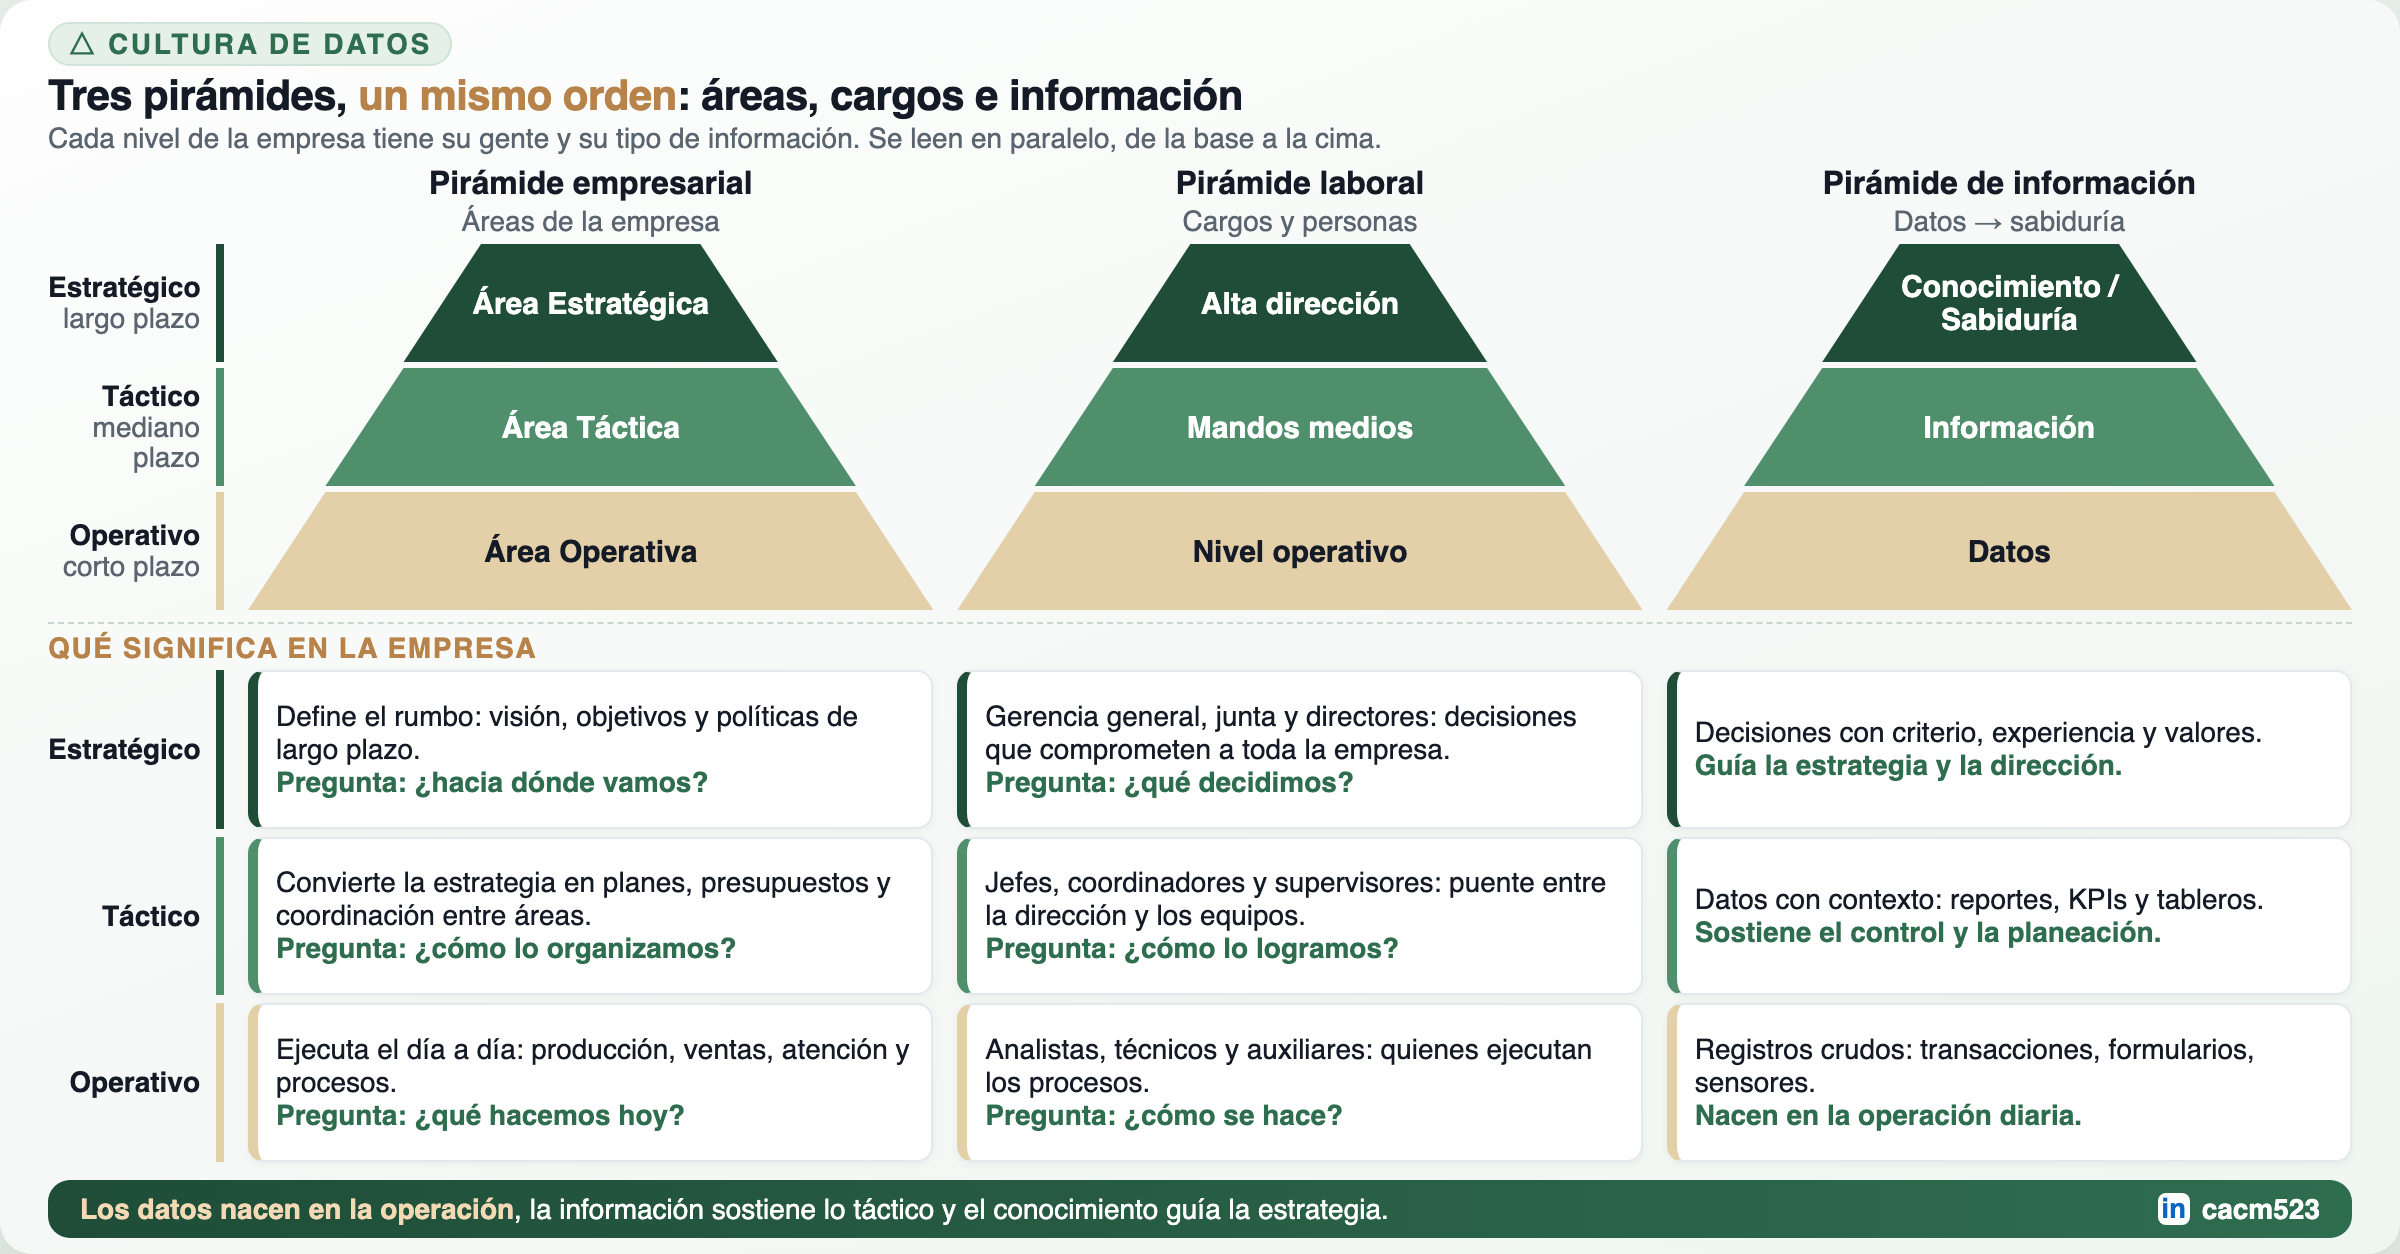
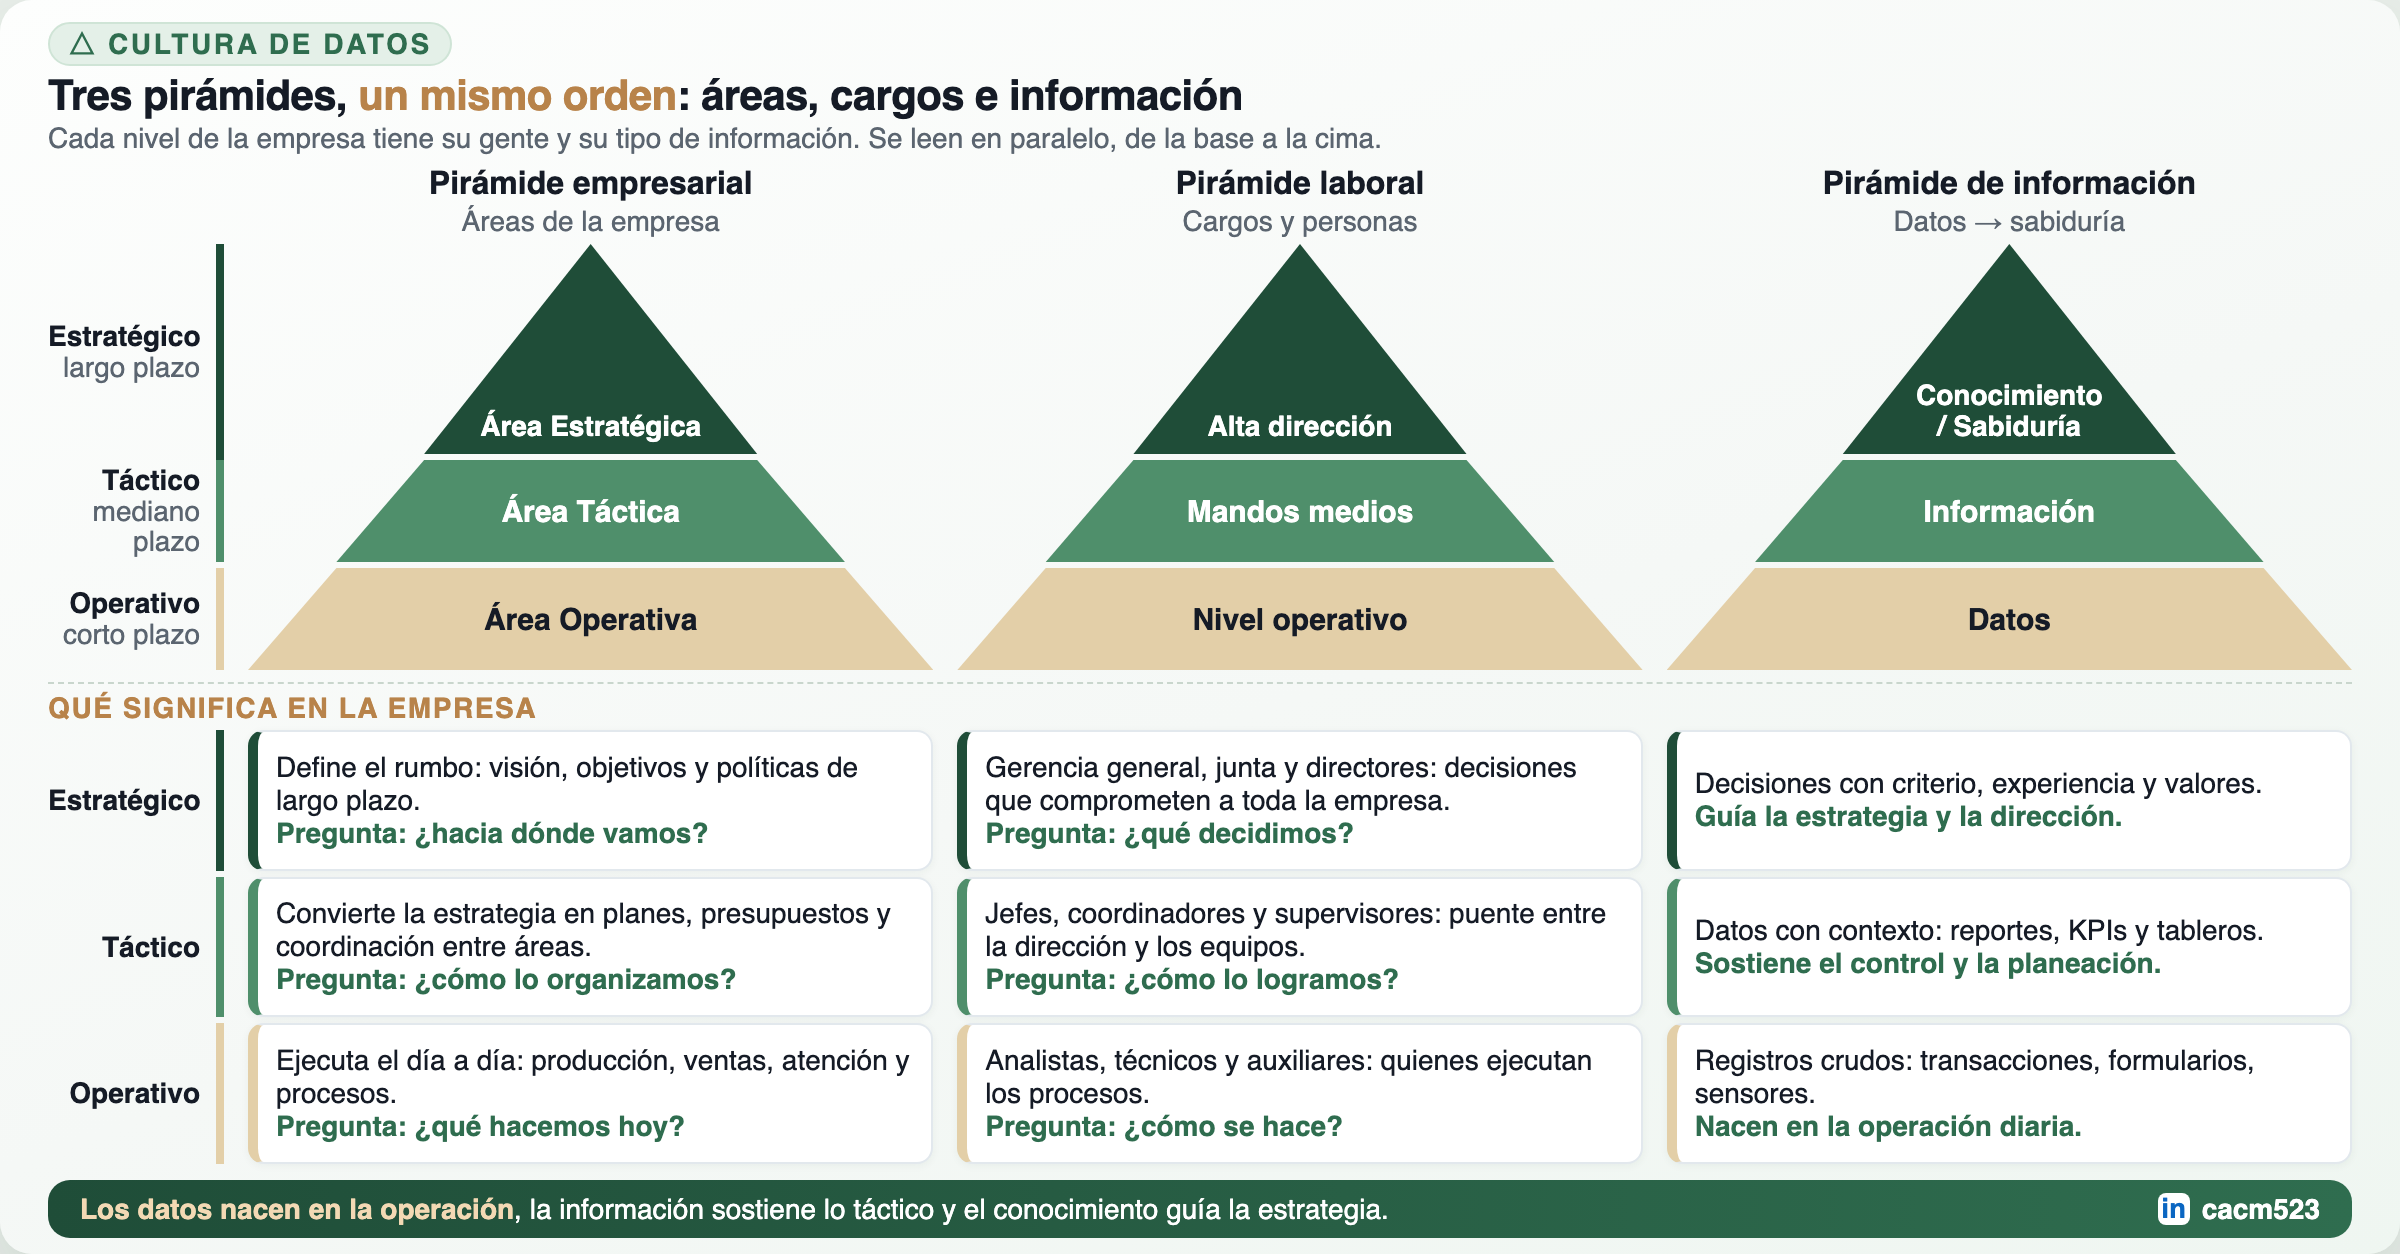
Pirámides: puntas afiladas y texto de la cima legible

Changed region(s): [[0.0, 0.1866, 1.0, 0.933]]

diff --git a/Construidos/Cultura_Datos/piramides-empresarial-laboral-informacion.html b/Construidos/Cultura_Datos/piramides-empresarial-laboral-informacion.html
@@ -12,19 +12,20 @@ body{min-height:627px;display:flex;align-items:center;justify-content:center;pad
 .eyebrow svg{width:14px;height:14px;flex:none}
 h1{font-size:21px;margin:0 0 1px;font-weight:800;letter-spacing:-.3px}h1 span{color:var(--tierra)}
 .sub{margin:0;font-size:14px;color:var(--muted)}
-.g{flex:1;display:grid;grid-template-columns:88px repeat(3,1fr);grid-template-rows:auto 62px 62px 62px auto 1fr 1fr 1fr;gap:0 12px;min-height:0}
+.g{flex:1;display:grid;grid-template-columns:88px repeat(3,1fr);grid-template-rows:auto 108px 54px 54px auto 1fr 1fr 1fr;gap:0 12px;min-height:0}
 .ch{text-align:center;padding-bottom:3px}.ch b{display:block;font-size:16px;font-weight:800}.ch span{font-size:14px;color:var(--muted)}
 .tier{display:flex;align-items:center;justify-content:center;text-align:center;margin-bottom:3px;padding:0 6%;line-height:1.1}
 .tier b{font-size:15px;font-weight:800}
+.t0.tier{align-items:flex-end;padding-bottom:6px}.t0.tier b{font-size:14px}
 .t0.tier{background:var(--t0);color:#fff}.t1.tier{background:var(--t1);color:#fff}.t2.tier{background:var(--t2);color:var(--ink)}
-.rail{display:flex;flex-direction:column;justify-content:center;border-right:4px solid var(--c);padding-right:8px;text-align:right;margin-bottom:3px}
+.rail.r0:not(.sm){height:108px}.rail{display:flex;flex-direction:column;justify-content:center;border-right:4px solid var(--c);padding-right:8px;text-align:right;margin-bottom:3px}
 .rail b{font-size:14px;font-weight:800;line-height:1.1}.rail span{font-size:14px;color:var(--muted);line-height:1.1}
 .r0{--c:var(--t0)}.r1{--c:var(--t1)}.r2{--c:var(--t2)}
 .sec{grid-column:1/-1;font-size:14px;font-weight:800;text-transform:uppercase;letter-spacing:.8px;color:var(--tierra);border-top:1px dashed #C9D6CD;margin-top:3px;padding:4px 0 3px}
-.tip{background:#fff;border:1px solid var(--line);border-left:5px solid var(--c);border-radius:8px;padding:3px 9px;margin-bottom:4px;display:flex;flex-direction:column;justify-content:center;box-shadow:0 1px 4px rgba(20,50,35,.05)}
+.tip{background:#fff;border:1px solid var(--line);border-left:5px solid var(--c);border-radius:8px;padding:2px 9px;margin-bottom:3px;display:flex;flex-direction:column;justify-content:center;box-shadow:0 1px 4px rgba(20,50,35,.05)}
 .t0.tip{--c:var(--t0)}.t1.tip{--c:var(--t1)}.t2.tip{--c:var(--t2)}
 .tip p{margin:0;font-size:14px;line-height:1.18}.tip em{font-style:normal;font-size:14px;font-weight:700;color:var(--green);line-height:1.18}
-.rail.sm{margin-bottom:4px}
+.rail.sm{margin-bottom:3px}
 .ribbon{margin-top:5px;background:linear-gradient(90deg,var(--green-dark),var(--green));border-radius:11px;padding:6px 16px;display:flex;align-items:center;gap:12px}
 .ribbon .t{flex:1;font-size:14px;color:#fff;line-height:1.22}.ribbon .t b{color:#F3D9B4}
 .sig{display:flex;align-items:center;gap:6px;flex:none}.li-badge{width:16px;height:16px;border-radius:4px;background:#fff;color:#0A66C2;display:flex;align-items:center;justify-content:center;font-size:14px;font-weight:800;font-family:Arial,sans-serif}.sig span{font-size:14px;font-weight:700;color:#fff}
@@ -32,6 +33,6 @@ h1{font-size:21px;margin:0 0 1px;font-weight:800;letter-spacing:-.3px}h1 span{co
 <div class="header"><div class="eyebrow"><svg viewBox="0 0 24 24" fill="none" stroke="currentColor" stroke-width="2" stroke-linecap="round"><path d="M12 3 3 20h18z"/></svg>Cultura de datos</div>
 <h1>Tres pirámides, <span>un mismo orden</span>: áreas, cargos e información</h1>
 <p class="sub">Cada nivel de la empresa tiene su gente y su tipo de información. Se leen en paralelo, de la base a la cima.</p></div>
-<div class="g"><div></div><div class="ch"><b>Pirámide empresarial</b><span>Áreas de la empresa</span></div><div class="ch"><b>Pirámide laboral</b><span>Cargos y personas</span></div><div class="ch"><b>Pirámide de información</b><span>Datos → sabiduría</span></div><div class="rail r0"><b>Estratégico</b><span>largo plazo</span></div><div class="tier t0" style="clip-path:polygon(34% 0,66% 0,77.3% 100%,22.7% 100%)"><b>Área Estratégica</b></div><div class="tier t0" style="clip-path:polygon(34% 0,66% 0,77.3% 100%,22.7% 100%)"><b>Alta dirección</b></div><div class="tier t0" style="clip-path:polygon(34% 0,66% 0,77.3% 100%,22.7% 100%)"><b>Conocimiento /<br>Sabiduría</b></div><div class="rail r1"><b>Táctico</b><span>mediano plazo</span></div><div class="tier t1" style="clip-path:polygon(22.7% 0,77.3% 0,88.7% 100%,11.3% 100%)"><b>Área Táctica</b></div><div class="tier t1" style="clip-path:polygon(22.7% 0,77.3% 0,88.7% 100%,11.3% 100%)"><b>Mandos medios</b></div><div class="tier t1" style="clip-path:polygon(22.7% 0,77.3% 0,88.7% 100%,11.3% 100%)"><b>Información</b></div><div class="rail r2"><b>Operativo</b><span>corto plazo</span></div><div class="tier t2" style="clip-path:polygon(11.3% 0,88.7% 0,100% 100%,0 100%)"><b>Área Operativa</b></div><div class="tier t2" style="clip-path:polygon(11.3% 0,88.7% 0,100% 100%,0 100%)"><b>Nivel operativo</b></div><div class="tier t2" style="clip-path:polygon(11.3% 0,88.7% 0,100% 100%,0 100%)"><b>Datos</b></div><div class="sec">Qué significa en la empresa</div><div class="rail r0 sm"><b>Estratégico</b></div><div class="tip t0"><p>Define el rumbo: visión, objetivos y políticas de largo plazo.</p><em>Pregunta: ¿hacia dónde vamos?</em></div><div class="tip t0"><p>Gerencia general, junta y directores: decisiones que comprometen a toda la empresa.</p><em>Pregunta: ¿qué decidimos?</em></div><div class="tip t0"><p>Decisiones con criterio, experiencia y valores.</p><em>Guía la estrategia y la dirección.</em></div><div class="rail r1 sm"><b>Táctico</b></div><div class="tip t1"><p>Convierte la estrategia en planes, presupuestos y coordinación entre áreas.</p><em>Pregunta: ¿cómo lo organizamos?</em></div><div class="tip t1"><p>Jefes, coordinadores y supervisores: puente entre la dirección y los equipos.</p><em>Pregunta: ¿cómo lo logramos?</em></div><div class="tip t1"><p>Datos con contexto: reportes, KPIs y tableros.</p><em>Sostiene el control y la planeación.</em></div><div class="rail r2 sm"><b>Operativo</b></div><div class="tip t2"><p>Ejecuta el día a día: producción, ventas, atención y procesos.</p><em>Pregunta: ¿qué hacemos hoy?</em></div><div class="tip t2"><p>Analistas, técnicos y auxiliares: quienes ejecutan los procesos.</p><em>Pregunta: ¿cómo se hace?</em></div><div class="tip t2"><p>Registros crudos: transacciones, formularios, sensores.</p><em>Nacen en la operación diaria.</em></div></div>
+<div class="g"><div></div><div class="ch"><b>Pirámide empresarial</b><span>Áreas de la empresa</span></div><div class="ch"><b>Pirámide laboral</b><span>Cargos y personas</span></div><div class="ch"><b>Pirámide de información</b><span>Datos → sabiduría</span></div><div class="rail r0"><b>Estratégico</b><span>largo plazo</span></div><div class="tier t0" style="clip-path:polygon(50% 0,74.3% 100%,25.7% 100%)"><b>Área Estratégica</b></div><div class="tier t0" style="clip-path:polygon(50% 0,74.3% 100%,25.7% 100%)"><b>Alta dirección</b></div><div class="tier t0" style="clip-path:polygon(50% 0,74.3% 100%,25.7% 100%)"><b>Conocimiento<br>/ Sabiduría</b></div><div class="rail r1"><b>Táctico</b><span>mediano plazo</span></div><div class="tier t1" style="clip-path:polygon(25.7% 0,74.3% 0,87.1% 100%,12.9% 100%)"><b>Área Táctica</b></div><div class="tier t1" style="clip-path:polygon(25.7% 0,74.3% 0,87.1% 100%,12.9% 100%)"><b>Mandos medios</b></div><div class="tier t1" style="clip-path:polygon(25.7% 0,74.3% 0,87.1% 100%,12.9% 100%)"><b>Información</b></div><div class="rail r2"><b>Operativo</b><span>corto plazo</span></div><div class="tier t2" style="clip-path:polygon(12.9% 0,87.1% 0,100% 100%,0 100%)"><b>Área Operativa</b></div><div class="tier t2" style="clip-path:polygon(12.9% 0,87.1% 0,100% 100%,0 100%)"><b>Nivel operativo</b></div><div class="tier t2" style="clip-path:polygon(12.9% 0,87.1% 0,100% 100%,0 100%)"><b>Datos</b></div><div class="sec">Qué significa en la empresa</div><div class="rail r0 sm"><b>Estratégico</b></div><div class="tip t0"><p>Define el rumbo: visión, objetivos y políticas de largo plazo.</p><em>Pregunta: ¿hacia dónde vamos?</em></div><div class="tip t0"><p>Gerencia general, junta y directores: decisiones que comprometen a toda la empresa.</p><em>Pregunta: ¿qué decidimos?</em></div><div class="tip t0"><p>Decisiones con criterio, experiencia y valores.</p><em>Guía la estrategia y la dirección.</em></div><div class="rail r1 sm"><b>Táctico</b></div><div class="tip t1"><p>Convierte la estrategia en planes, presupuestos y coordinación entre áreas.</p><em>Pregunta: ¿cómo lo organizamos?</em></div><div class="tip t1"><p>Jefes, coordinadores y supervisores: puente entre la dirección y los equipos.</p><em>Pregunta: ¿cómo lo logramos?</em></div><div class="tip t1"><p>Datos con contexto: reportes, KPIs y tableros.</p><em>Sostiene el control y la planeación.</em></div><div class="rail r2 sm"><b>Operativo</b></div><div class="tip t2"><p>Ejecuta el día a día: producción, ventas, atención y procesos.</p><em>Pregunta: ¿qué hacemos hoy?</em></div><div class="tip t2"><p>Analistas, técnicos y auxiliares: quienes ejecutan los procesos.</p><em>Pregunta: ¿cómo se hace?</em></div><div class="tip t2"><p>Registros crudos: transacciones, formularios, sensores.</p><em>Nacen en la operación diaria.</em></div></div>
 <div class="ribbon"><div class="t"><b>Los datos nacen en la operación</b>, la información sostiene lo táctico y el conocimiento guía la estrategia.</div><div class="sig"><div class="li-badge">in</div><span>cacm523</span></div></div>
 </div></div></body></html>
